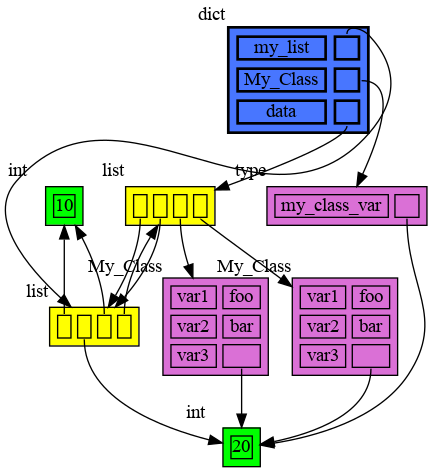
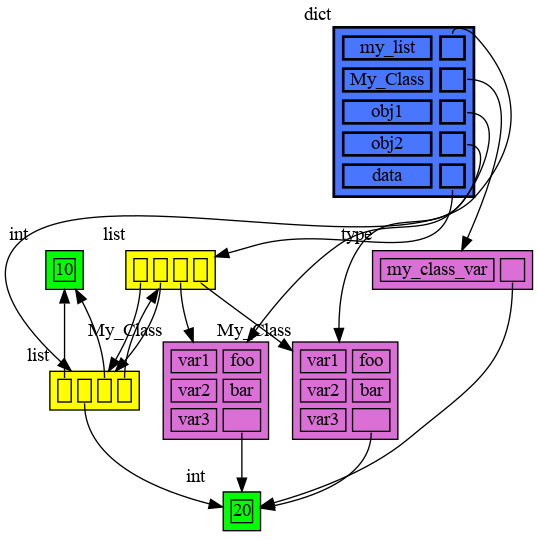
better type filtering for locals()

diff --git a/memory_graph/rewrite.py b/memory_graph/rewrite.py
@@ -1,12 +1,12 @@
-from types import NoneType
-from types import MappingProxyType
+import types
 
 # the types of the values we rewrite
 
-singular_types={NoneType, bool, int, float, complex, str, range, bytes}
+singular_types={types.NoneType, bool, int, float, complex, str, range, bytes}
 linear_types={tuple, list, set, frozenset, bytearray}
 dict_types={dict}
-mappingproxy_types={MappingProxyType}
+filter_types={types.FunctionType,types.ModuleType}
+mappingproxy_types={types.MappingProxyType}
 mappingproxy_ignore_dunder_keys=True
 
 known_types=singular_types | linear_types | dict_types | mappingproxy_types | {type} # add 'type' for classes and class variables
@@ -31,6 +31,9 @@ def is_type_with_dict(value):
 
 def is_iterable_type(value):
     return is_linear_type(value) or is_dict_type(value) or is_type_with_dict(value)
+
+def is_filter_type(value):
+    return type(value) in filter_types
 
 # functions that we rewrite the values with
     
@@ -120,7 +123,7 @@ def rewrite_object_with_dict(obj):
     return new_iterable
 
 def rewrite(data):
-    if type(data) is NoneType:
+    if type(data) is types.NoneType:
         return rewrite_singular("None") # special case, make a string because value 'None' is used for not-specified in software
     elif is_singular_type(data):
         return rewrite_singular(data)

diff --git a/memory_graph/__init__.py b/memory_graph/__init__.py
@@ -31,7 +31,8 @@ def filter(dictionary):
     filtered_dict={}
     for key in dictionary:
         value=dictionary[key]
-        if type(key)==str and not rewrite.is_dunder_name(key) and not key in {'memory_graph'}:                
-            if rewrite.is_known_type(value):
+        if type(key)==str and not rewrite.is_dunder_name(key):                
+            if (rewrite.is_known_type(value) or rewrite.is_type_with_dict(value)) and not rewrite.is_filter_type(value):
+                print('key:',key,type(key),'value:',value,type(value))
                 filtered_dict[key]=value
     return filtered_dict
